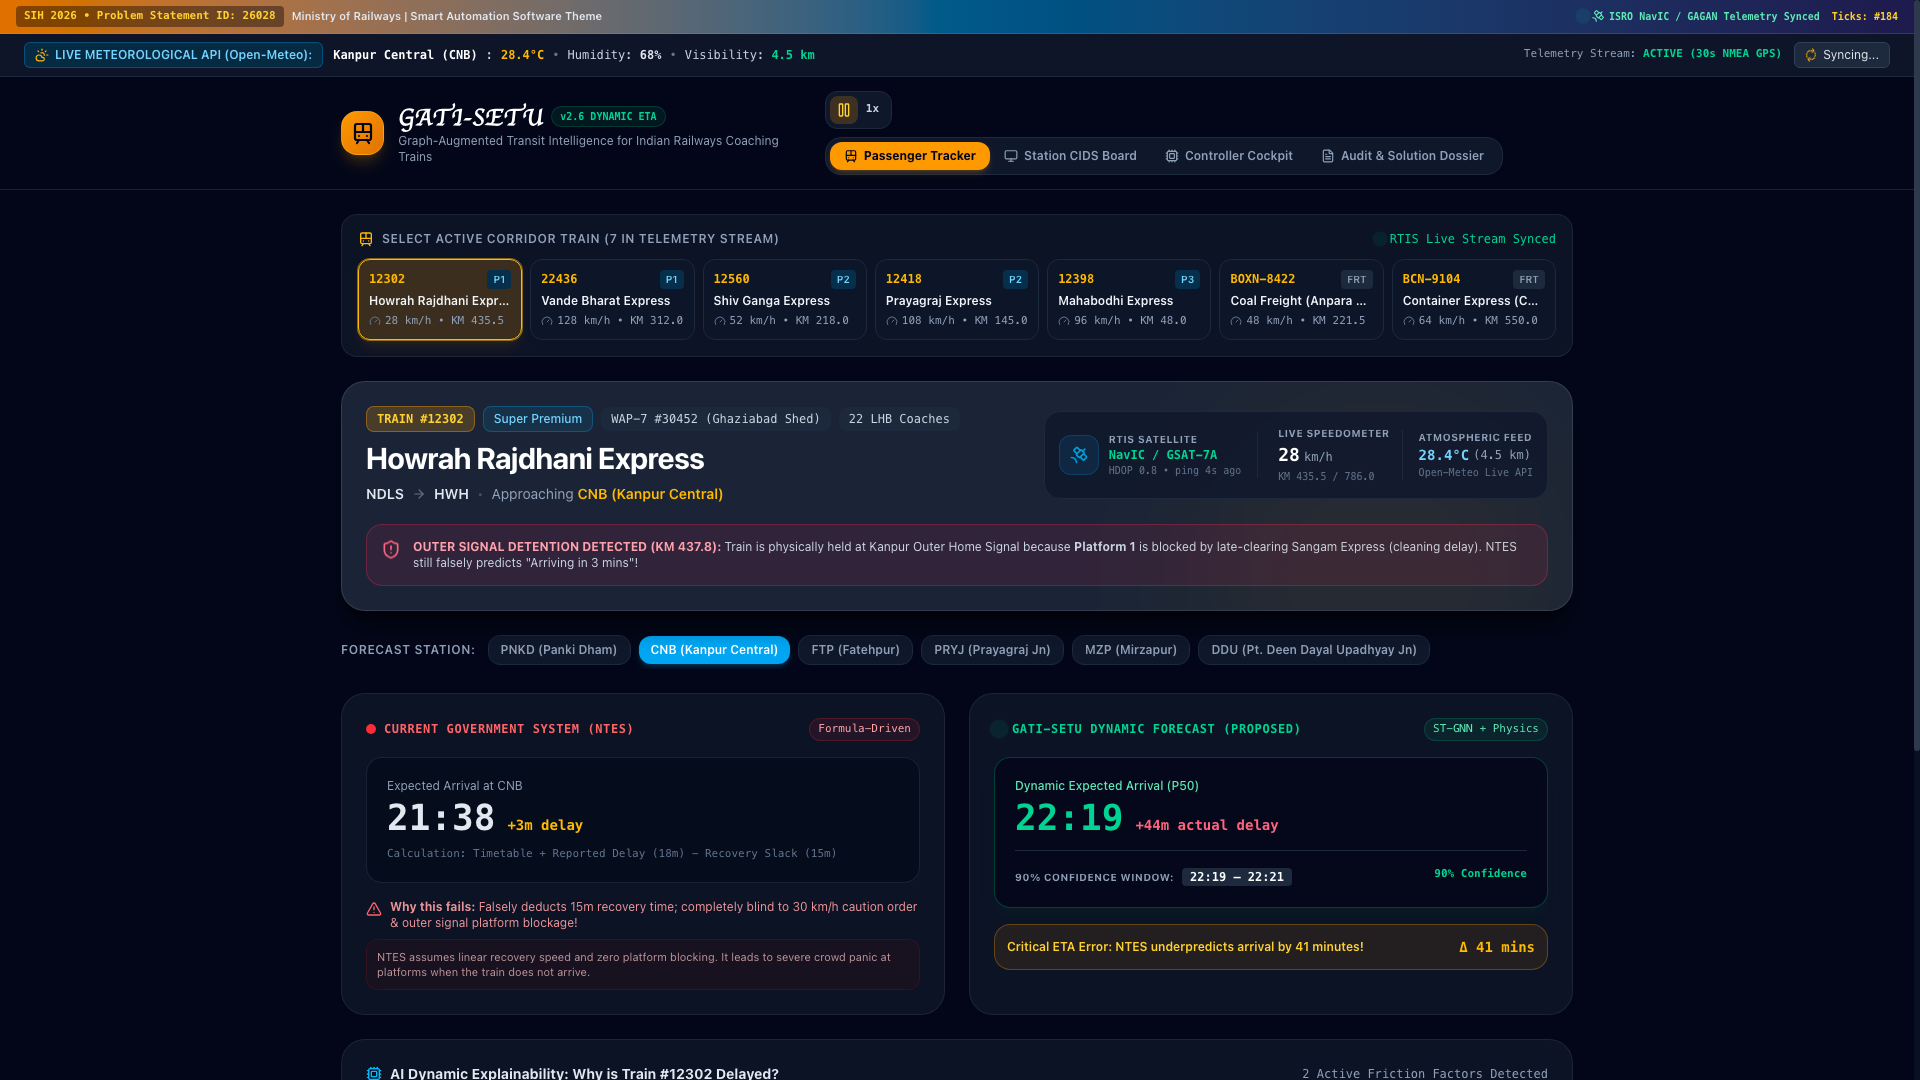
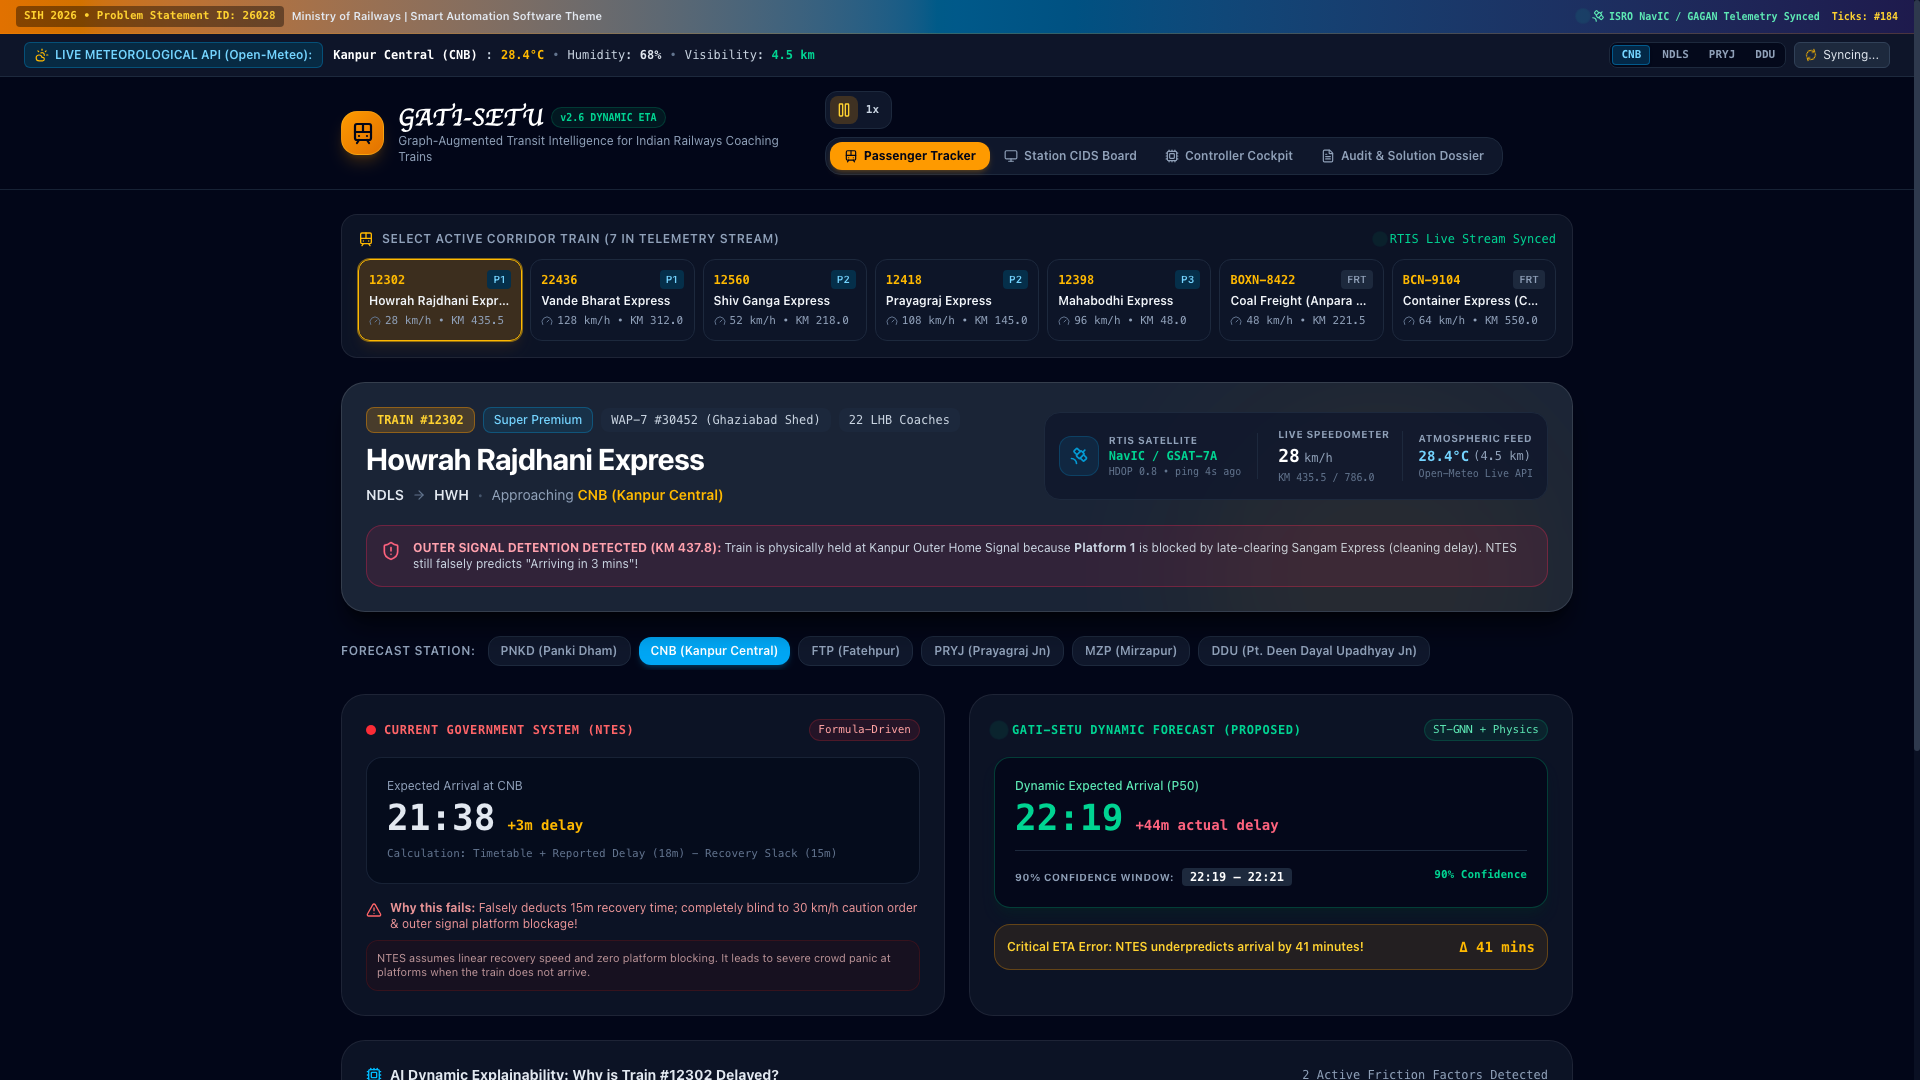
feat(weather): add multi-station live weather switcher (NDLS, CNB, PRYJ, DDU)

diff --git a/src/App.jsx b/src/App.jsx
@@ -65,19 +65,19 @@ export default function App() {
   });
   const [isWeatherLoading, setIsWeatherLoading] = useState(false);
 
-  const loadLiveWeather = async (silent = false) => {
+  const loadLiveWeather = async (silent = false, stationCode = 'CNB') => {
     setIsWeatherLoading(true);
-    const data = await fetchLiveStationWeather('CNB');
+    const data = await fetchLiveStationWeather(stationCode);
     setLiveWeather(data);
     setIsWeatherLoading(false);
     if (!silent) {
-      toast.success(`🌤 Live Weather Synced: ${data.stationName} ${data.temperature}°C, Visibility: ${(data.visibilityMeters/1000).toFixed(1)} km`);
+      toast.success(`🌤 Live API Synced: ${data.stationName} (${data.stationCode}) • ${data.temperature}°C • ${(data.visibilityMeters/1000).toFixed(1)} km Visibility`);
     }
   };
 
   useEffect(() => {
-    loadLiveWeather(true);
-    const weatherInterval = setInterval(() => loadLiveWeather(true), 60000); // 60s live weather sync
+    loadLiveWeather(true, 'CNB');
+    const weatherInterval = setInterval(() => loadLiveWeather(true, liveWeather?.stationCode || 'CNB'), 60000); // 60s live weather sync
     return () => clearInterval(weatherInterval);
   }, []);
 
@@ -267,18 +267,34 @@ export default function App() {
           )}
         </div>
 
-        <div className="flex items-center gap-3">
-          <span className="text-[11px] text-slate-400 font-mono hidden lg:inline">
-            Telemetry Stream: <span className="text-emerald-400 font-bold">ACTIVE (30s NMEA GPS)</span>
-          </span>
+        <div className="flex items-center gap-2">
+          {/* Corridor Station Weather Selector */}
+          <div className="flex items-center gap-1 bg-slate-950/80 p-0.5 rounded-lg border border-slate-800">
+            {['CNB', 'NDLS', 'PRYJ', 'DDU'].map((code) => (
+              <button
+                key={code}
+                id={`btn-weather-stn-${code}`}
+                onClick={() => loadLiveWeather(false, code)}
+                className={`px-2 py-0.5 rounded text-[11px] font-mono font-bold transition-all ${
+                  liveWeather?.stationCode === code
+                    ? 'bg-sky-500/20 text-sky-300 border border-sky-500/40 shadow-sm'
+                    : 'text-slate-400 hover:text-white'
+                }`}
+                title={`Fetch real live weather for ${code}`}
+              >
+                {code}
+              </button>
+            ))}
+          </div>
+
           <button
-            onClick={() => loadLiveWeather(false)}
+            onClick={() => loadLiveWeather(false, liveWeather?.stationCode || 'CNB')}
             disabled={isWeatherLoading}
             className="flex items-center gap-1.5 px-2.5 py-1 rounded-md bg-slate-800 hover:bg-slate-700 text-slate-200 hover:text-white border border-slate-700 text-xs transition-colors"
             title="Re-sync live weather data from Open-Meteo"
           >
             <RefreshCw className={`w-3 h-3 ${isWeatherLoading ? 'animate-spin text-amber-400' : 'text-slate-400'}`} />
-            <span>{isWeatherLoading ? 'Syncing...' : 'Sync Live Weather'}</span>
+            <span>{isWeatherLoading ? 'Syncing...' : 'Sync Live'}</span>
           </button>
         </div>
       </div>
